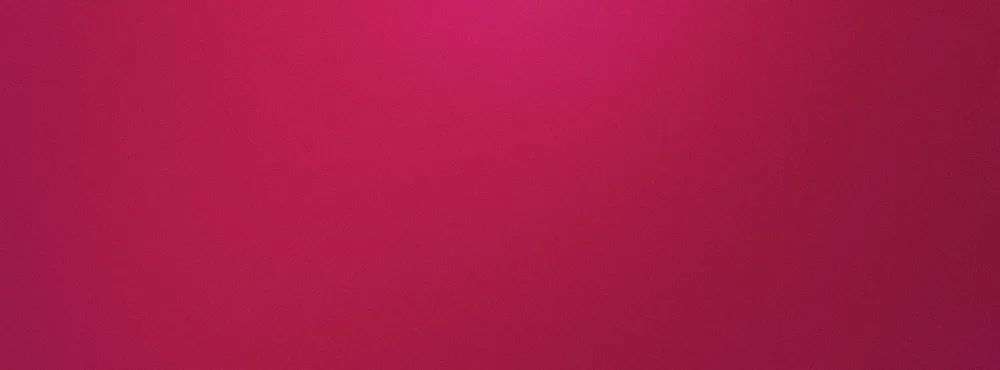
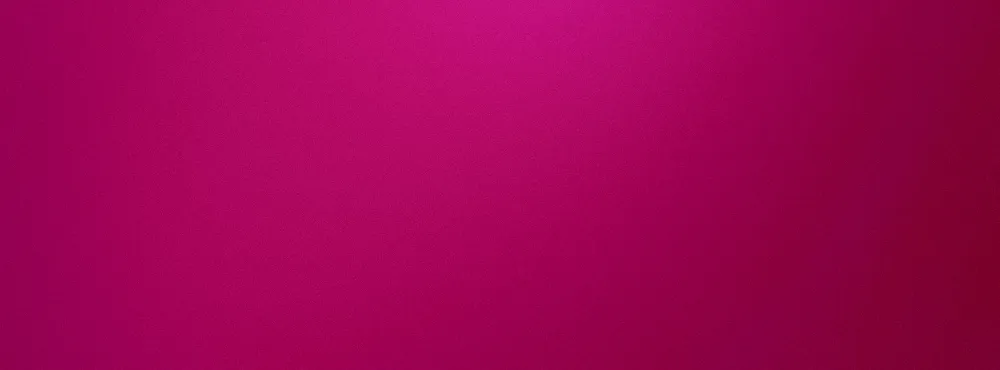
Essai Oulala : Opéra & classique #83074d + nouvelle texture
Claude-Session: https://claude.ai/code/session_01RxN1F3ZAAkdqdDHeFgHe9z

diff --git a/essai-oulala-gris-cmjn.html b/essai-oulala-gris-cmjn.html
@@ -460,7 +460,7 @@ html .sendbox .sb p b{color:var(--fg);font-weight:600}
 :root[data-theme="dark"] .tag.g[style*="#2457e8"]{color:#7ab4ff}
 :root[data-theme="dark"] .tag.g[style*="#4674af"]{color:#9dbbe6}
 :root[data-theme="dark"] .tag.g[style*="#7a24a6"]{color:#cf9cf0}
-:root[data-theme="dark"] .tag.g[style*="#7c153b"]{color:#f09ab8}
+:root[data-theme="dark"] .tag.g[style*="#83074d"]{color:#f09ab8}
 </style>
 
 <div class="wrap">
@@ -622,7 +622,7 @@ function row(o,ctx){
   var hh=ctx==='range'?hrs(o,state.sel||T):null;var meta=[esc(o.v),(hh&&hh!==1&&hh!=='closed')?'ouvert '+esc(hh):'',(o.n===o.g?'':esc(o.n))].filter(function(x,i,ar){return x&&ar.indexOf(x)===i}).join(" · ");
   var d=DESC[o.i]||{},link=d.l||o.u,id="ev"+(EVK++);
   var det='<div class="det" id="'+id+'" hidden>'+(d.d?'<p>'+esc(d.d)+'</p>':'')+'<div class="det-l"><button type="button" class="pin" data-pin="'+id+'" aria-expanded="false" aria-label="Adresse et itinéraire"><svg viewBox="0 0 16 20" aria-hidden="true"><path fill="currentColor" fill-rule="evenodd" d="M8 0C3.6 0 0 3.5 0 7.9 0 13.5 8 20 8 20s8-6.5 8-12.1C16 3.5 12.4 0 8 0zm0 10.9a3 3 0 1 1 0-6 3 3 0 0 1 0 6z"/></svg></button><a href="'+esc(link)+'" target="_blank" rel="noopener">On donne nos sources</a></div>'+adr(o,id)+'</div>';
-  var wpl=where(o.v);var tn=mixed()&&tone(o);return '<div class="row'+(stop?" gone":"")+(MINE[mkey(o)]?" kept":"")+'" data-k="'+esc(mkey(o))+'" data-ke="'+esc(o.e||o.d)+'"'+(tn?' style="'+(tn=="#2457e8"?'--hl-ink:#fff;--tag-ink:#fff;--row-pct:11%;--row-pct-nuit:32%;--row-tint-nuit:#1d2fd0;':tn=="#4674af"||tn=="#7a24a6"||tn=="#7c153b"?'--hl-ink:#fff;--tag-ink:#fff;--row-pct:14%;':'')+'--hl:'+tn+';--accent:'+tn+';--glow:'+GLOWS[o.c.filter(function(x){return !MUTE[x]&&TONES[x]})[0]]+';--glow-o:'+GLOWO[o.c.filter(function(x){return !MUTE[x]&&TONES[x]})[0]]+'"':'')+(wpl&&wpl.k!=null?' data-pl="'+wpl.k+'"':(wpl&&wpl.out?' data-pl="o:'+esc(wpl.out)+'"':''))+'><div class="time">'+esc(when)+'<button type="button" class="kh" data-keep="1" aria-pressed="'+(!!MINE[mkey(o)])+'" aria-label="Garder dans mes favoris"><svg viewBox="0 0 24 22" aria-hidden="true"><path d="M12 20.6c-.3-.2-10.4-6.4-10.4-13.2C1.6 4.3 4 1.9 7 1.9c2.1 0 3.9 1.2 5 3 1.1-1.8 2.9-3 5-3 3 0 5.4 2.4 5.4 5.5 0 6.8-10.1 13-10.4 13.2z"/></svg></button></div><div class="ttl"><button type="button" class="evt" aria-expanded="false" aria-controls="'+id+'" data-ev="'+id+'">'+esc(o.t)+'</button><span class="meta">'+meta+'</span>'+det+'</div><div class="tags"><button type="button" class="plus" data-for="'+id+'" aria-label="Voir le résumé" tabindex="-1"></button>'+tags+'</div></div>';
+  var wpl=where(o.v);var tn=mixed()&&tone(o);return '<div class="row'+(stop?" gone":"")+(MINE[mkey(o)]?" kept":"")+'" data-k="'+esc(mkey(o))+'" data-ke="'+esc(o.e||o.d)+'"'+(tn?' style="'+(tn=="#2457e8"?'--hl-ink:#fff;--tag-ink:#fff;--row-pct:11%;--row-pct-nuit:32%;--row-tint-nuit:#1d2fd0;':tn=="#4674af"||tn=="#7a24a6"||tn=="#83074d"?'--hl-ink:#fff;--tag-ink:#fff;--row-pct:14%;':'')+'--hl:'+tn+';--accent:'+tn+';--glow:'+GLOWS[o.c.filter(function(x){return !MUTE[x]&&TONES[x]})[0]]+';--glow-o:'+GLOWO[o.c.filter(function(x){return !MUTE[x]&&TONES[x]})[0]]+'"':'')+(wpl&&wpl.k!=null?' data-pl="'+wpl.k+'"':(wpl&&wpl.out?' data-pl="o:'+esc(wpl.out)+'"':''))+'><div class="time">'+esc(when)+'<button type="button" class="kh" data-keep="1" aria-pressed="'+(!!MINE[mkey(o)])+'" aria-label="Garder dans mes favoris"><svg viewBox="0 0 24 22" aria-hidden="true"><path d="M12 20.6c-.3-.2-10.4-6.4-10.4-13.2C1.6 4.3 4 1.9 7 1.9c2.1 0 3.9 1.2 5 3 1.1-1.8 2.9-3 5-3 3 0 5.4 2.4 5.4 5.5 0 6.8-10.1 13-10.4 13.2z"/></svg></button></div><div class="ttl"><button type="button" class="evt" aria-expanded="false" aria-controls="'+id+'" data-ev="'+id+'">'+esc(o.t)+'</button><span class="meta">'+meta+'</span>'+det+'</div><div class="tags"><button type="button" class="plus" data-for="'+id+'" aria-label="Voir le résumé" tabindex="-1"></button>'+tags+'</div></div>';
 }
 function list(){
   if(state.q)return found();
@@ -903,7 +903,7 @@ window.addEventListener("resize",function(){view()});
 /* ordinateur : la carte démarre au même bord gauche que les pastilles de rubriques */
 function alignMap(){var b=document.querySelector(".body"),c=document.getElementById("rub");if(!b||!c)return;if(!window.matchMedia("(min-width:861px)").matches){["--mapw","--listw","--mgap"].forEach(function(p){b.style.removeProperty(p)});return}var cs=getComputedStyle(c),br=b.getBoundingClientRect(),left=c.getBoundingClientRect().left+parseFloat(cs.paddingLeft||0),w=br.right-left,lg=document.querySelector(".logo"),lw=br.width-w-60,gp=60;if(w>=200)b.style.setProperty("--mapw",Math.round(w)+"px");else b.style.removeProperty("--mapw");if(w>=200&&lw>=300&&gp>=16){b.style.setProperty("--listw",Math.floor(lw)+"px");b.style.setProperty("--mgap",gp+"px")}else{b.style.removeProperty("--listw");b.style.removeProperty("--mgap")}if(MAPSEL!=null&&map.by&&map.by[MAPSEL])tip(MAPSEL,map.by[MAPSEL].length)}
 window.addEventListener("resize",alignMap);window.addEventListener("load",alignMap);if(document.fonts&&document.fonts.ready)document.fonts.ready.then(alignMap);if(window.ResizeObserver){var _tp=document.querySelector(".top");if(_tp)new ResizeObserver(alignMap).observe(_tp)}setTimeout(alignMap,0);
-var GLOWS={"expo":"#00f277","vernissage":"#94d400","manif":"#b61500","visite":"#2b4d7d","conference":"#4a00fc","rencontre":"#4a00fc","theatre":"#00449a","spectacle":"#4a0f6b","danse":"#b85a00","classique":"#4a0820","jeune":"#ff06a2"};var GLOWO={"expo":0.675,"vernissage":0.544,"manif":0.675,"visite":0.646,"conference":0.266,"rencontre":0.266,"theatre":0.675,"spectacle":0.674,"danse":0.64,"classique":0.28,"jeune":0.338};var TONES={expo:"#5cf2a6",vernissage:"#bdf53b",manif:"#ff0000",visite:"#4674af",conference:"#b596ff",rencontre:"#b596ff",theatre:"#2457e8",spectacle:"#7a24a6",danse:"#f17c00",classique:"#7c153b",jeune:"#ff9fdb"};
+var GLOWS={"expo":"#00f277","vernissage":"#94d400","manif":"#b61500","visite":"#2b4d7d","conference":"#4a00fc","rencontre":"#4a00fc","theatre":"#00449a","spectacle":"#4a0f6b","danse":"#b85a00","classique":"#4a0820","jeune":"#ff06a2"};var GLOWO={"expo":0.675,"vernissage":0.544,"manif":0.675,"visite":0.646,"conference":0.266,"rencontre":0.266,"theatre":0.675,"spectacle":0.674,"danse":0.64,"classique":0.28,"jeune":0.338};var TONES={expo:"#5cf2a6",vernissage:"#bdf53b",manif:"#ff0000",visite:"#4674af",conference:"#b596ff",rencontre:"#b596ff",theatre:"#2457e8",spectacle:"#7a24a6",danse:"#f17c00",classique:"#83074d",jeune:"#ff9fdb"};
 document.addEventListener("click",function(e){var p=e.target.closest&&e.target.closest(".plus[data-for]");if(!p)return;var t=document.querySelector('[data-ev="'+p.dataset.for+'"]');if(t)t.click()});document.documentElement.classList.add("hint");document.addEventListener("click",function(e){if(e.target.closest&&e.target.closest("[data-ev],.plus"))document.documentElement.classList.remove("hint")},true);setTimeout(function(){document.documentElement.classList.remove("hint")},15000);
 function aucune(){var k=Object.keys(state.cats).filter(function(k){return state.cats[k]})[0]||"";document.documentElement.classList.toggle("sans-rub",!k);document.documentElement.setAttribute("data-rub",k)}
 function lueur(s){var g=document.querySelector("#lueur feGaussianBlur");if(g)g.setAttribute("stdDeviation",s*.72)}
